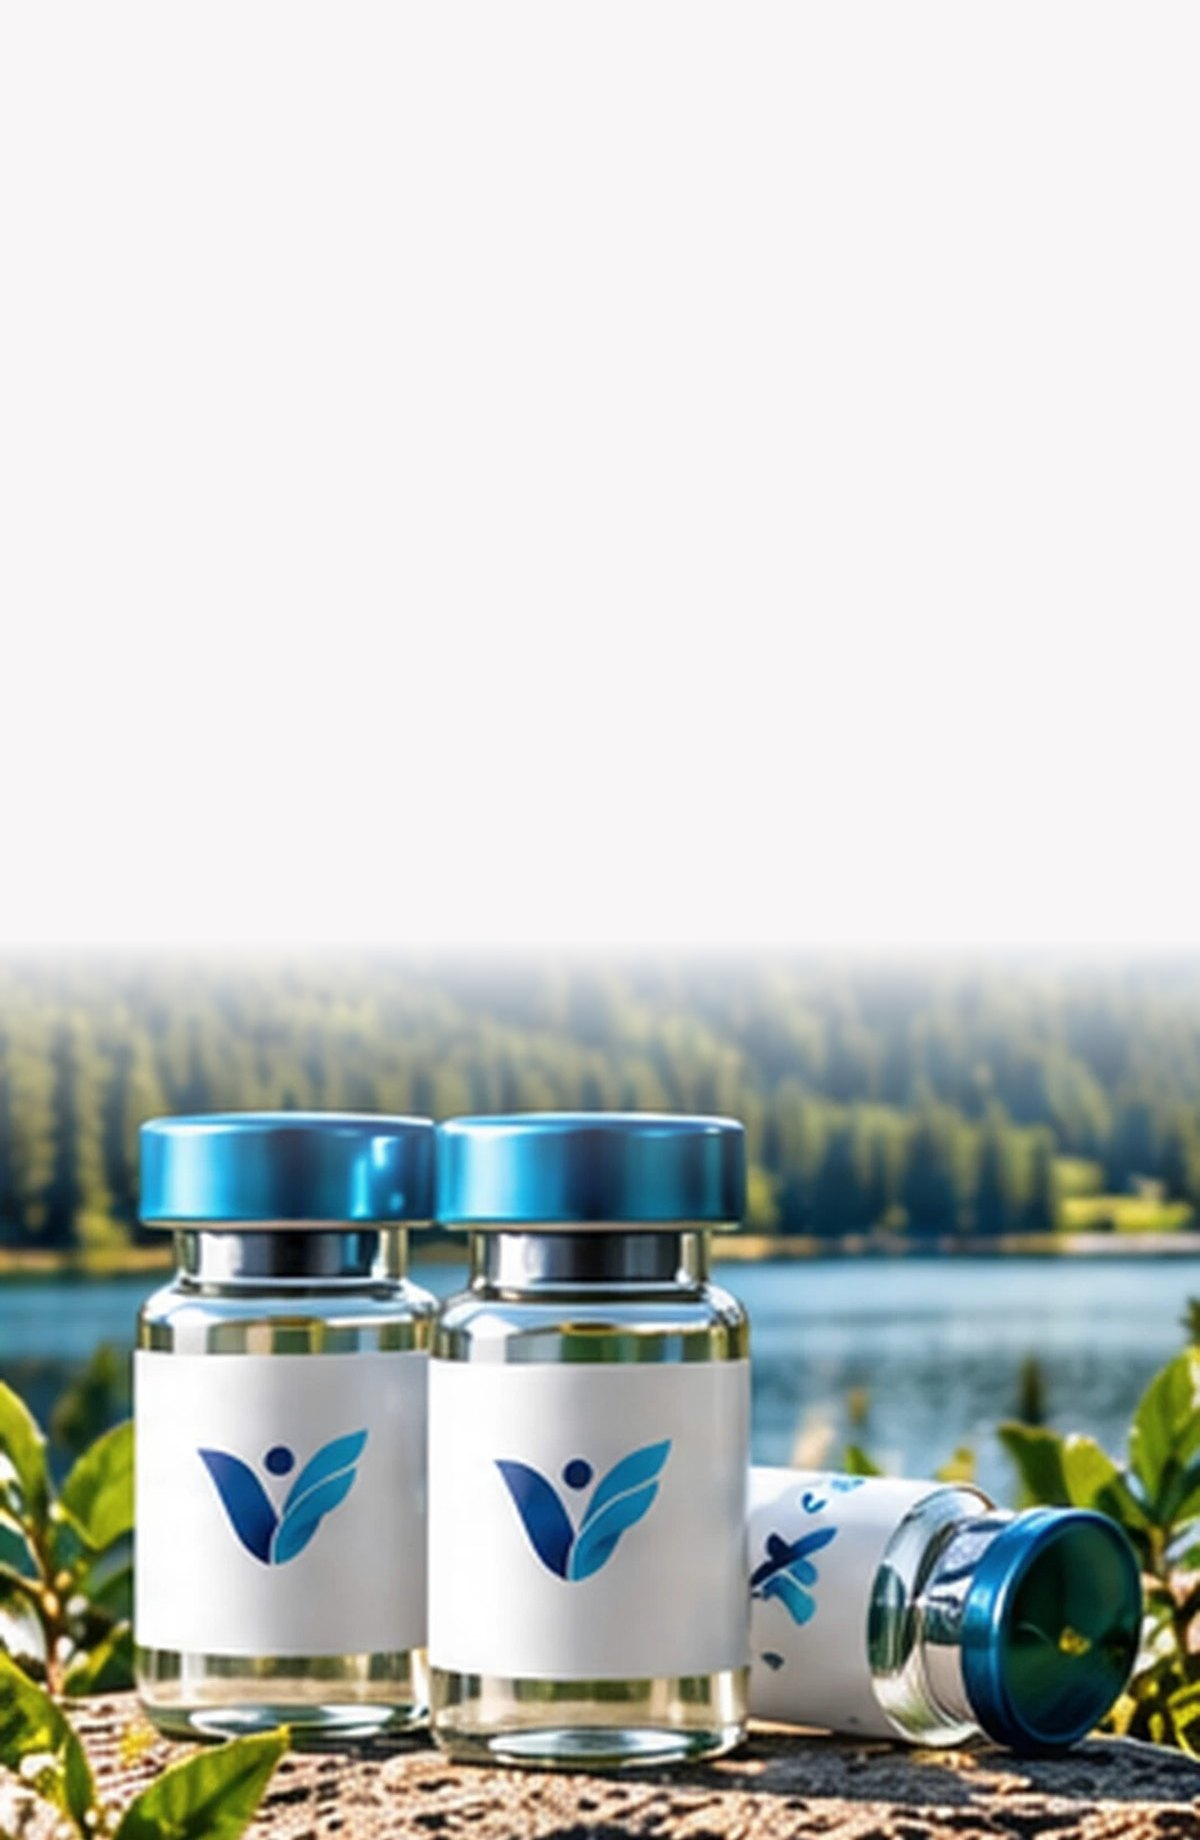
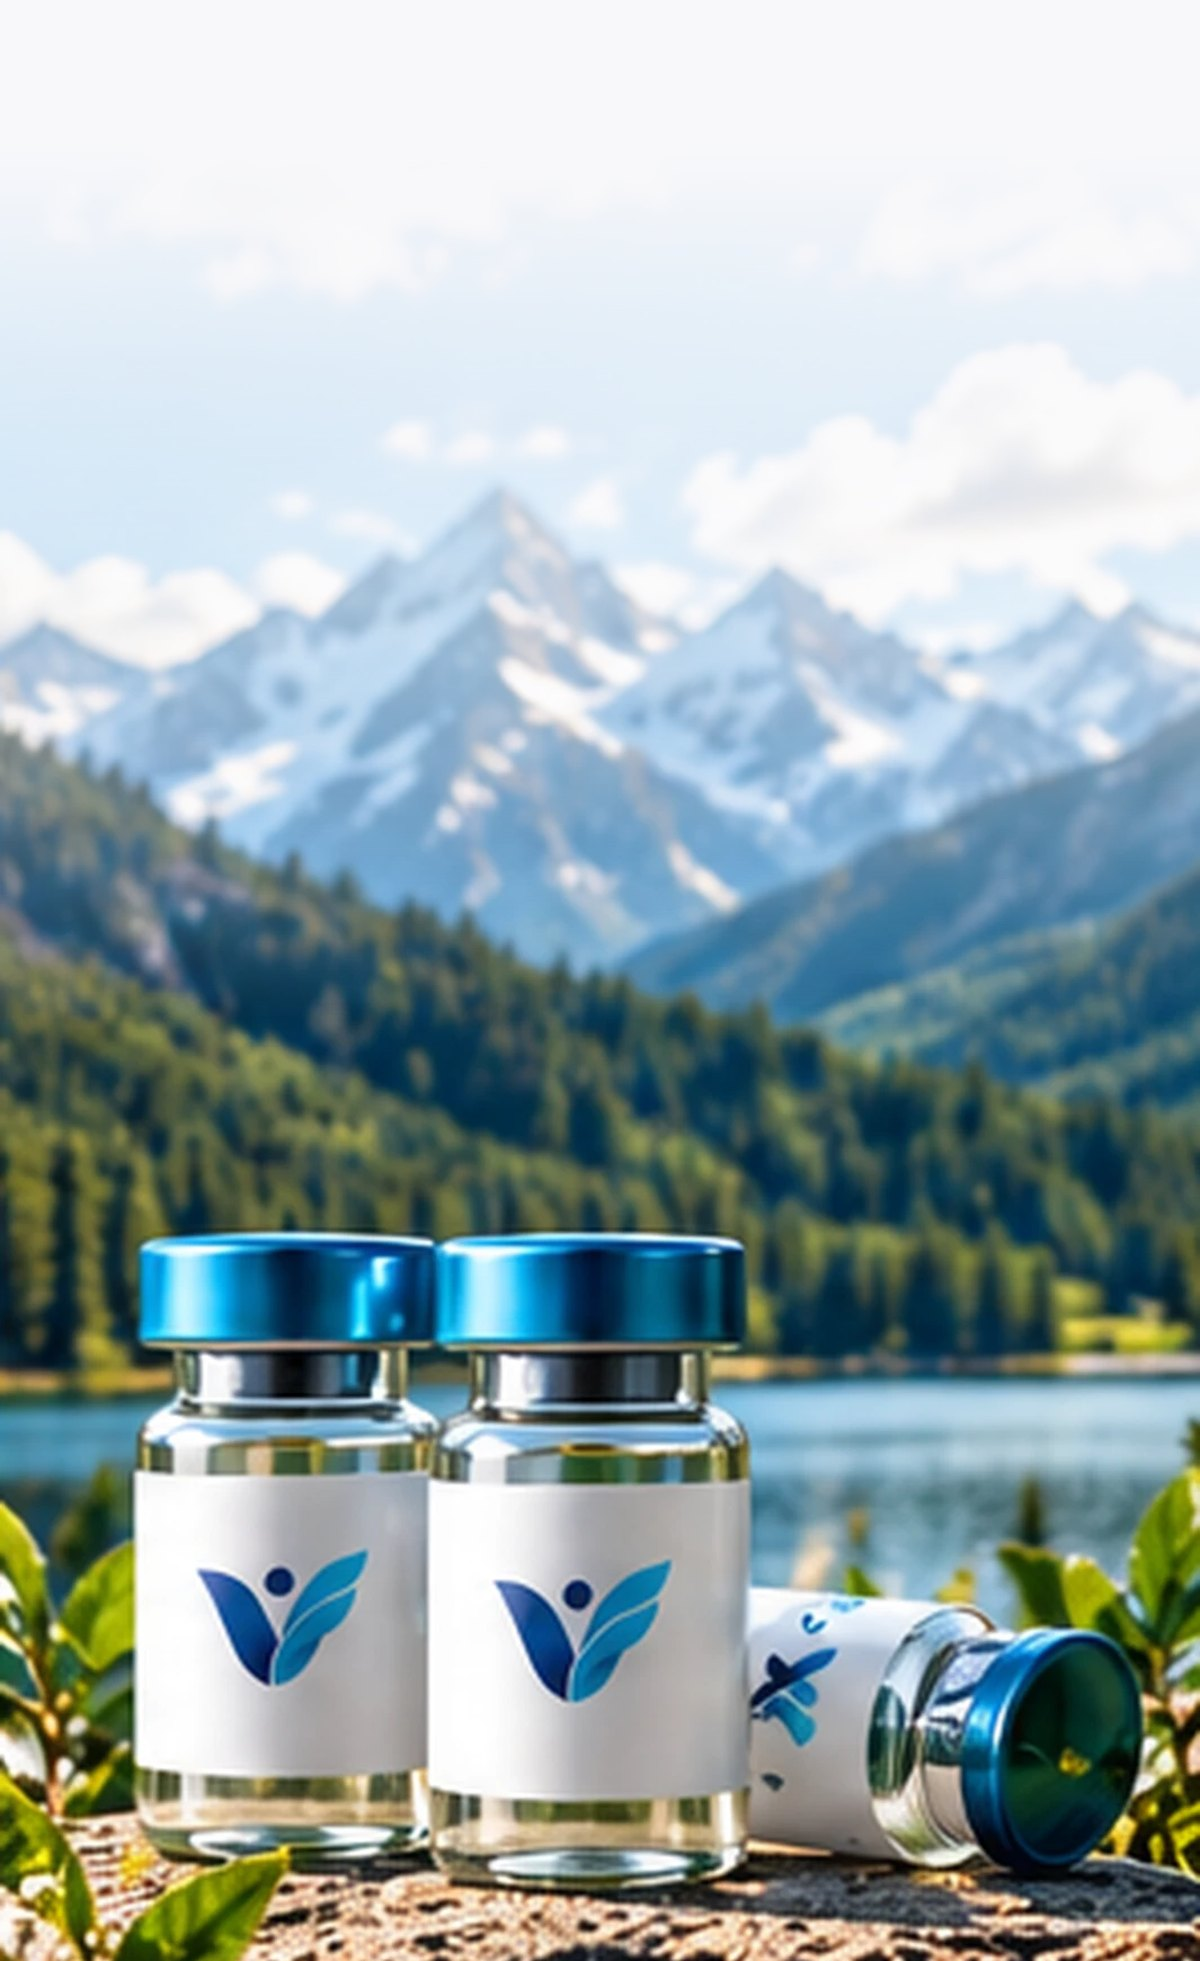
Cart 5: the supplied vials-under-the-mountains photo for the cover
The full-height photo (sky, mountains, lake, the vials on the rock)
replaces the extended crop. Its sky is paled behind the copy, fully pale
at the top so the phone layout's taller cover blends in, fading out over
the peaks. Saved 1200 wide; the cover is 600 × 980.

Claude-Session: https://claude.ai/code/session_01D9wyYeR5ucDGRSLEYABcrG

diff --git a/lib/email-flows/defaults.ts b/lib/email-flows/defaults.ts
@@ -74,8 +74,8 @@ export const PHOTOS = {
   offerCover: { url: '/images/email/photos/offer-cover.jpg', ratio: 1.25 },
   dropper: { url: '/images/email/photos/dropper.jpg', ratio: 1.055 },
   dropperCard: { url: '/images/email/photos/dropper-card.jpg', ratio: 0.845 },
-  /** The three vials on the rock, a pale sky fading down into them (Cart 5). */
-  lastChanceCover: { url: '/images/email/photos/last-chance-cover.jpg', ratio: 1.5333 },
+  /** The supplied vials-under-the-mountains photo, the sky paled behind the copy (Cart 5). */
+  lastChanceCover: { url: '/images/email/photos/last-chance-cover.jpg', ratio: 1.6342 },
   /** The dropper over the vial at the right, a pale haze on the left for the help topics (Cart 4). */
   questionsCover: { url: '/images/email/photos/questions-cover.jpg', ratio: 1 },
   /** The supplied support photo, whole: head to waist (Cart 4's "Real People" panel). */

diff --git a/lib/email-flows/render.ts b/lib/email-flows/render.ts
@@ -942,7 +942,7 @@ function cartLastChanceLayout(k: Kit): string {
             '.ef-count-unit { font-size: 9px !important; margin-top: 6px !important; }',
             // The copy takes more of a narrow screen: the cover grows, the photo
             // stays whole at its foot, and the pale sky above it runs taller.
-            `.ef-lc-cover { height: calc((100vw - 22px) * ${s.hero_image_ratio || 1.5333} + 60px) !important; background-size: 100% auto !important; background-position: center bottom !important; background-color: #F8F6F7 !important; }`,
+            `.ef-lc-cover { height: calc((100vw - 22px) * ${s.hero_image_ratio || 1.6342} + 40px) !important; background-size: 100% auto !important; background-position: center bottom !important; background-color: #F8F8FA !important; }`,
           ), []),
           coverHero(
             k,

diff --git a/lib/email-flows/email-flows.test.ts b/lib/email-flows/email-flows.test.ts
@@ -539,7 +539,7 @@ test('each photo goes where its mockup puts it, at the mockup proportions', () =
         assert.ok(existsSync(join(PUBLIC, url)), `${flow} ${step.step}: ${url}`);
       }
       // Nothing towers over the email the way the uncropped covers did.
-      if (step.hero_image_ratio) assert.ok(step.hero_image_ratio <= 1.6, `${flow} ${step.step} ratio ${step.hero_image_ratio}`);
+      if (step.hero_image_ratio) assert.ok(step.hero_image_ratio <= 1.7, `${flow} ${step.step} ratio ${step.hero_image_ratio}`);
     }
   }
 });

diff --git a/docs/changelog/2026-10-15-email-flows.md b/docs/changelog/2026-10-15-email-flows.md
@@ -226,7 +226,7 @@ stretched cover:
 | `offer-cover` (the three vials darkened, navy fading down into them) | 1.25 | Welcome 4 cover, the offer set over its navy top |
 | `cart-offer-cover` (the supplied single vial on a rock, darkened, navy fading into it) | 1.50 | Cart 3 cover, the offer and button set over its navy top |
 | `lab-vial` (vial in a gloved hand) | 0.94 | Welcome 2 and Cart 2 "We Show Our Work" cards |
-| `last-chance-cover` (the three vials on the rock, a pale sky fading down into them) | 1.53 | Cart 5 cover, the headline, countdown and button over the sky |
+| `last-chance-cover` (the supplied vials-under-the-mountains photo, sky paled at the top) | 1.63 | Cart 5 cover, the headline, countdown and button over the sky |
 | `support-agent-full` (the supplied support photo, whole: head to waist) | 1.23 | Cart 4 "Real People" card, shown whole |
 
 The welcome crops come from the full-height supplied covers, except
@@ -294,7 +294,8 @@ shown whole, inside the panel's padding with rounded corners.
 **Cart 5** (`last-chance-cover`): the "Final reminder" band, then "Last
 Chance to Complete Your Order" (46px on desktop), "Your cart will expire
 soon.", the large countdown and the wide red Complete My Order button over
-a pale sky that fades down into the three vials on the rock. Below come
+the supplied vials-under-the-mountains photo, its sky paled behind the copy
+and fading out over the peaks. Below come
 what's in the cart (no second button) and the badges. On phones the type
 and countdown step down and the cover grows, with the photo whole at its
 foot.
